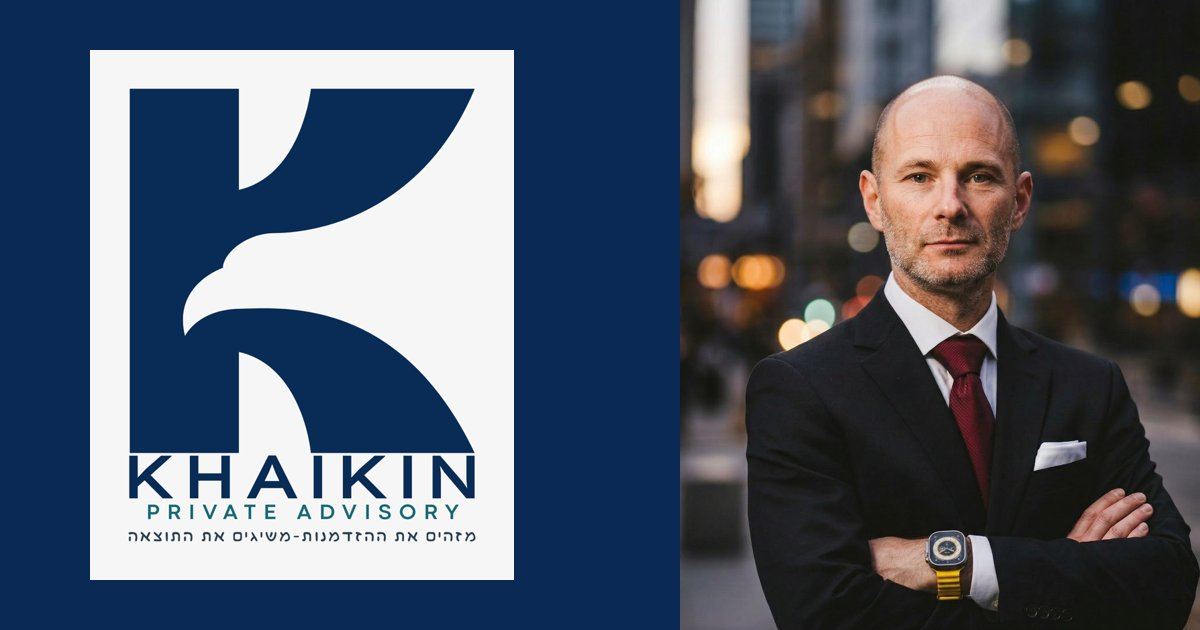
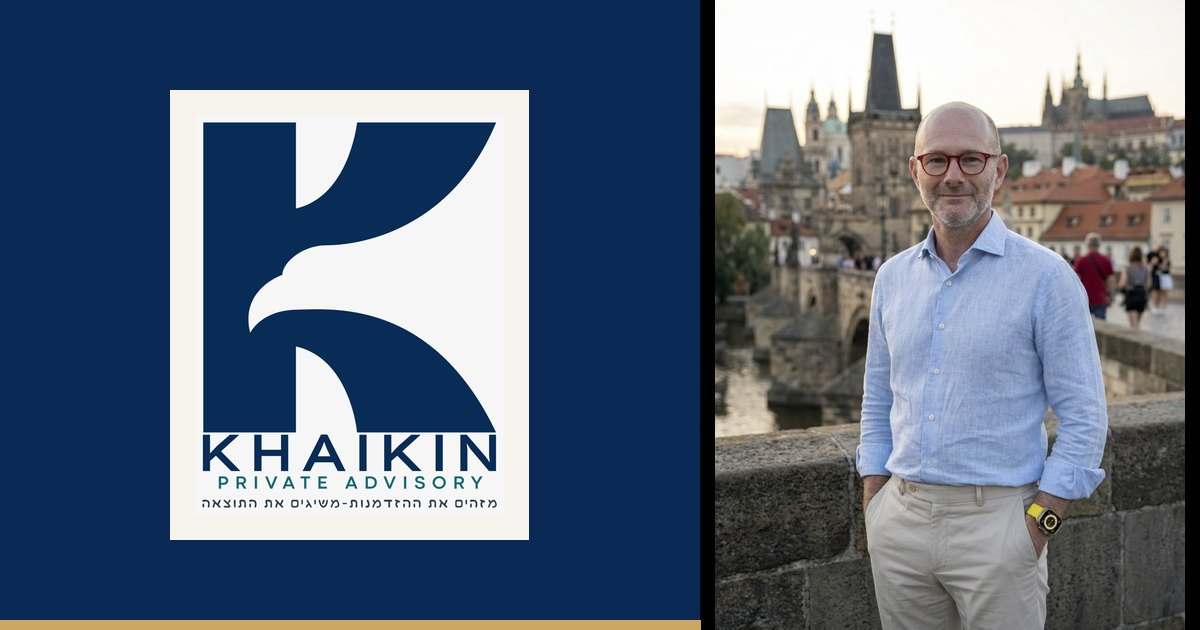
Replace site photos with new portraits; refresh social share image
Claude-Session: https://claude.ai/code/session_012NHZwyszwtvJSGc5StA6sc

diff --git a/src/pages/Home.tsx b/src/pages/Home.tsx
@@ -176,7 +176,7 @@ export default function Home() {
         <Reveal>
           <div className="relative mx-auto max-w-sm">
             <div className="absolute -bottom-4 -left-4 h-full w-full rounded-[2rem] border-2 border-gold/60" />
-            <img src={IMG.BW} alt={advisorInfo.name} loading="lazy" className="relative aspect-[3/4] w-full rounded-[2rem] object-cover object-top grayscale-[20%]" />
+            <img src={IMG.BW} alt={advisorInfo.name} loading="lazy" className="relative aspect-[3/4] w-full rounded-[2rem] object-cover object-top" />
           </div>
         </Reveal>
         <Reveal delay={0.1}>

diff --git a/index.html b/index.html
@@ -20,7 +20,7 @@
     <meta property="og:type" content="website" />
     <meta property="og:locale" content="he_IL" />
     <meta property="og:url" content="https://yoni-k.com/" />
-    <meta property="og:image" content="https://yoni-k.com/img/og.jpg" />
+    <meta property="og:image" content="https://yoni-k.com/img/og.jpg?v=2" />
     <meta name="twitter:card" content="summary_large_image" />
 
     <link rel="preconnect" href="https://fonts.googleapis.com" />

diff --git a/src/data/index.ts b/src/data/index.ts
@@ -1,9 +1,9 @@
 import { Service, Testimonial } from '@/lib/index';
 
 export const IMG = {
-  HERO: '/img/yoni-hero.jpg',
-  BW: '/img/yoni-bw.jpg',
-  BRIDGE: '/img/yoni-bridge.jpg',
+  HERO: '/img/yoni-prague.jpg',
+  BW: '/img/yoni-autumn.jpg',
+  BRIDGE: '/img/yoni-autumn.jpg',
   LOGO: '/img/logo.png',
 };
 
